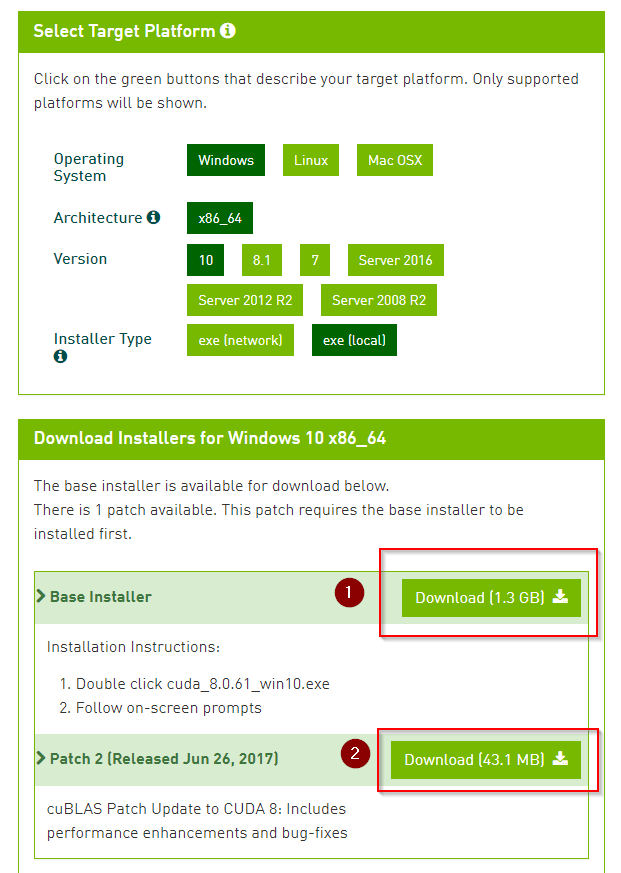
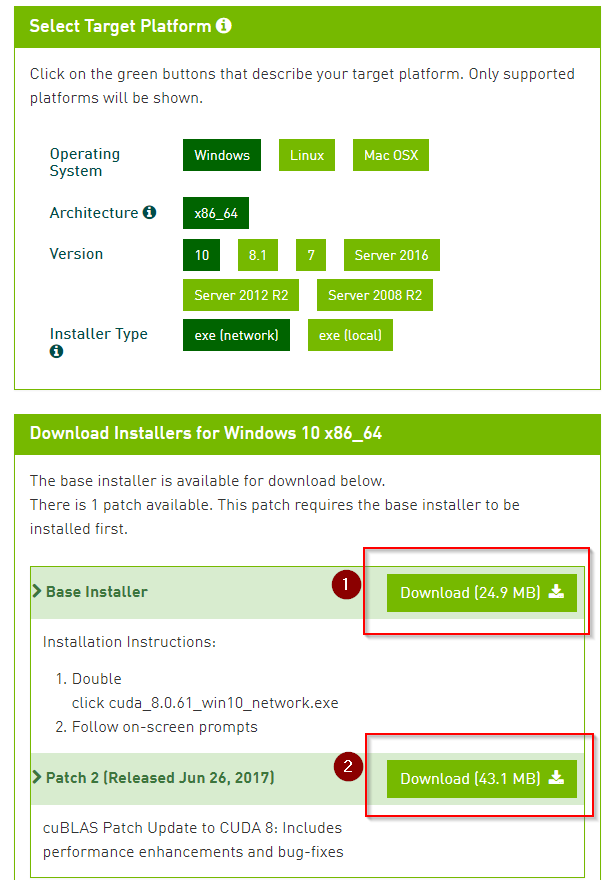
update to CUDA download instructions.

Changed region(s): [[0.0, 0.0, 1.0, 1.0], [0.0894, 0.1546, 0.2682, 0.3093]]

diff --git a/README.md b/README.md
@@ -18,7 +18,7 @@ Choose your version depending on your Operating System
 
 As of writing (2017-11-22), tensorflow-gpu==1.4.0 does not support the latest CUDA 9 yet on Windows. See https://github.com/tensorflow/tensorflow/issues/14244 for progress. Make sure you get CUDA 8.0 and (separately) cuBLAS patch 2 from the CUDA download archives at https://developer.nvidia.com/cuda-80-ga2-download-archive . 
 
-**Be aware** that the CUDA installer's default Express settings will also install (old) video drivers and other non-CUDA-relevant software.
+**Be aware** that the CUDA installer's default Express settings will also install (old) video drivers and other non-CUDA-relevant software. This is part of the reason why the local installer is 1.3GB (!). I prefer the network version and I uncheck all the non-CUDA options.
 
 ### Step 4: Download cuDNN 6.0 for CUDA 8 <a href="https://developer.nvidia.com/rdp/cudnn-download" target="_blank">Download</a>
 Choose your version depending on your Operating System.
